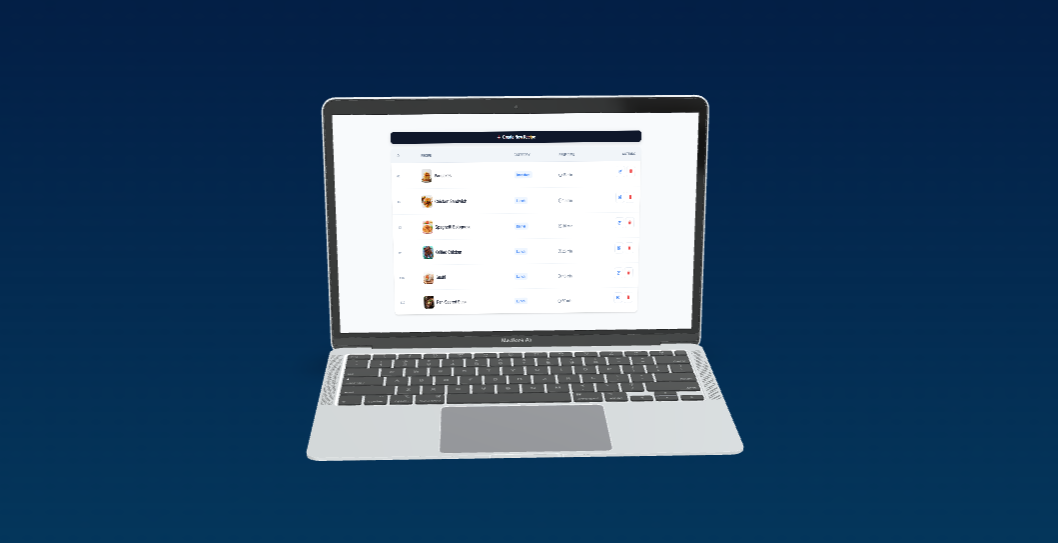
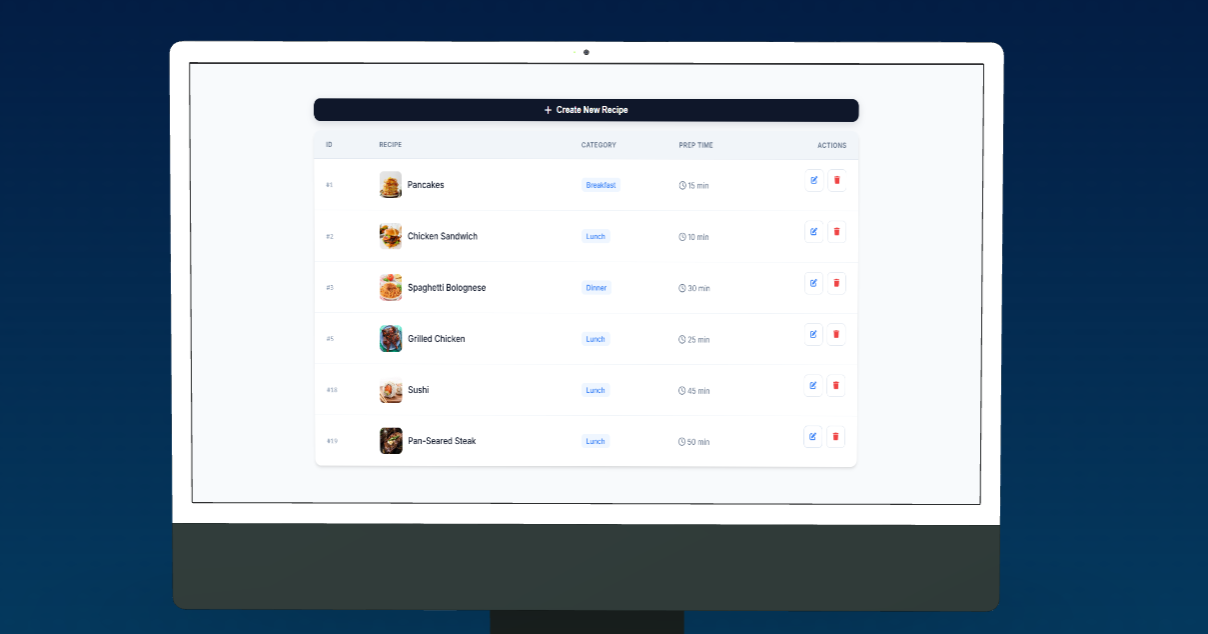
update

diff --git a/style.css b/style.css
@@ -181,7 +181,7 @@ nav a:hover {
     .navbar-toggle { display: block; }
     
     nav {
-        display: none;
+        display: flex;
         flex-direction: column;
         position: absolute;
         top: 100%;
@@ -190,9 +190,15 @@ nav a:hover {
         width: 250px;
         height: 100vh;
         padding: 2rem;
+        transform: translateX(100%);
+        transition: transform 0.4s cubic-bezier(0.4, 0, 0.2, 1);
+        box-shadow: -10px 0 30px rgba(0,0,0,0.5);
     }
 
-    nav.active { display: flex; }
+    nav.active {
+        display: flex;
+        transform: translateX(0);
+    }
 
     .introduction h1 { font-size: 40px; }
 
@@ -349,4 +355,105 @@ header {
 .pfmu {
     width: 90%;
     border-radius: 10px;
+}
+
+.skills-list li {
+    list-style: none;
+}
+
+.contact-wrapper {
+    max-width: 850px;
+    margin: 0 auto;
+    text-align: center;
+}
+
+.contact-header p {
+    font-family: 'Space Mono', monospace;
+    color: #cbd5e1;
+    margin-bottom: 40px;
+    font-size: 1.1rem;
+}
+
+.contact-grid {
+    display: grid;
+    grid-template-columns: repeat(auto-fit, minmax(220px, 1fr));
+    gap: 20px;
+}
+
+.contact-card {
+    background: rgba(118, 161, 255, 0.05);
+    border: 1px solid rgba(118, 161, 255, 0.1);
+    padding: 30px;
+    border-radius: 12px;
+    text-decoration: none;
+    color: #e7e7e7;
+    transition: all 0.3s ease;
+    display: flex;
+    flex-direction: column;
+    align-items: center;
+    gap: 10px;
+    backdrop-filter: blur(10px);
+}
+
+.contact-card i {
+    font-size: 2rem;
+    color: var(--primary-blue);
+    margin-bottom: 5px;
+}
+
+.contact-card span {
+    font-family: 'Alfa Slab One', cursive;
+    font-size: 1.2rem;
+    letter-spacing: 1px;
+}
+
+.contact-card p {
+    font-size: 0.8rem;
+    font-family: 'Space Mono', monospace;
+    opacity: 0.6;
+}
+
+/* Hover Effects */
+.contact-card:hover {
+    background: rgba(118, 161, 255, 0.15);
+    border-color: var(--primary-blue);
+    transform: translateY(-10px);
+    box-shadow: 0 10px 30px rgba(118, 161, 255, 0.1);
+}
+
+.contact-card:hover i {
+    transform: scale(1.1);
+}
+
+/* Mobile Tweak */
+@media (max-width: 600px) {
+    .contact-grid {
+        grid-template-columns: 1fr;
+    }
+}
+
+
+.logo {
+    position: relative;
+    padding: 5px 15px;
+    background: rgba(118, 161, 255, 0.1);
+    border-left: 3px solid var(--primary-blue);
+    transform: skewX(-15deg);
+    transition: 0.3s;
+    cursor: pointer;
+}
+
+.logo:hover {
+    background: rgba(118, 161, 255, 0.2);
+    box-shadow: -5px 0 20px rgba(118, 161, 255, 0.3);
+}
+
+.logo h1 {
+    transform: skewX(15deg);
+    font-size: 1.8rem !important;
+}
+
+.logo-a {
+    text-decoration: none;
+    color: white;
 }

diff --git a/index.html b/index.html
@@ -12,11 +12,15 @@
 </head>
 <body>
     
-<header>   
+<header><a href="#" class="logo-a"> 
     <div class="logo">
-        <h1 class="first-Name">A. </h1>
+        <h1 class="bracket">&lt;</h1>
+        <h1 class="first-Name">A</h1>
+        <h1 class="dot">.</h1>
         <h1 class="last-Name">El Morabiti</h1>
+        <h1 class="bracket"> /&gt;</h1>
     </div>
+    </a> 
     <button class="navbar-toggle" aria-label="Toggle Navigation">
         <span class="bar"></span>
         <span class="bar"></span>
@@ -31,11 +35,10 @@
 </header>
 
 <main class="hero">
-    <!-- ABOUT SECTION -->
     <section class="introduction">
         <h1>HI, MY NAME IS</h1>
-        <p class="subtitle">full stack web developer specializing in backend logic</p>
         <h1>AHMED EL MORABITI</h1>
+        <p class="subtitle">full stack web developer specializing in backend logic</p>
     </section>
     <div class="about-window">
             <div class="terminal-header">
@@ -51,43 +54,39 @@
             </div>
         </div>
 
-    <!-- SKILLS & EDUCATION SECTION -->
     <section id="skills" class="section-container">
         <br><br><br><br>
         <h2 class="section-title">SKILLS & EDUCATION</h2>
         <div class="grid-layout">
             <div class="card terminal-style">
-                <h3>Technical Stack</h3>
+                <h3>Technical Stack:</h3><br>
                 <ul class="skills-list">
-                    <li><span class="dot html"></span><span style="color: #e34f26;"><i class="fa-brands fa-html5"></i> HTML5</span></li>
-                    <li><span class="dot css"></span><span style="color: #1572b6;"><i class="fa-brands fa-css3-alt"></i> CSS3</span></li>
-                    <li><span class="dot js"></span><span style="color: #f7df1e;"><i class="fa-brands fa-js"></i> JavaScript</span></li>
-                    <li><span class="dot php"></span><span style="color: #8892be;"><i class="fa-brands fa-php"></i> PHP</span></li>
-                    <li><span class="dot mysql"></span><span style="color: #00758f;"><i class="fa-solid fa-database"></i> MySQL</span></li>
-                    <li><span class="dot git"></span><span style="color: #8892be;"><i class="fa-brands fa-github"></i> Git/Github</span></li>
+                    <li><span style="color: #e34f26;"><i class="fa-brands fa-html5"></i> HTML5</span></li>
+                    <li><span style="color: #1572b6;"><i class="fa-brands fa-css3-alt"></i> CSS3</span></li>
+                    <li><span style="color: #f7df1e;"><i class="fa-brands fa-js"></i> JavaScript</span></li>
+                    <li><span style="color: #8892be;"><i class="fa-brands fa-php"></i> PHP</span></li>
+                    <li><span style="color: #00758f;"><i class="fa-solid fa-database"></i> MySQL</span></li>
+                    <li><span style="color: #8892be;"><i class="fa-brands fa-github"></i> Git/Github</span></li>
                 </ul>
             </div>
             <div class="card terminal-style">
                 <h3>Education:</h3><br>
                 <div class="edu-item">
-                    <h4>Web Development Diploma</h4>
+                    <h4 style="color: var(--primary-blue);">Web Development Diploma</h4>
                     <p>Solicode - Tangier, Morocco</p>
                     <p class="date">2025 - Present</p>
                 </div><br>
                 <div class="edu-item">
-                    <h4>Management in College</h4>
-                    <p>University of Abdelmalek Essadi</p>
+                    <h4 style="color: var(--primary-blue);">Management in College</h4>
+                    <p>University of Abdelmalek Essadi - Tangier, Morocco</p>
                     <p class="date">2025 - Present</p>
                 </div>
             </div>
         </div>
     </section>
 
-    <!-- EXPERIENCE & PROJECTS SECTION -->
     <section id="experience" class="section-container">
         <h2 class="section-title">EXPERIENCE & PROJECTS</h2>
-        
-        <!-- Project 1 -->
         <div class="project-card">
             <div class="project-info">
                 <h3>Responsive Portfolio Project</h3>
@@ -107,7 +106,6 @@
             </div>
         </div>
 
-        <!-- Project 2 Placeholder -->
         <div class="project-card">
             <div class="project-info">
                 <h3>Recipe List App</h3>
@@ -129,18 +127,34 @@
         </div>
     </section>
 
-    <!-- CONTACT SECTION -->
-    <section id="contact" class="section-container">
-        <h2 class="section-title">CONTACT</h2>
-        <div class="terminal-style contact-box">
-            <p>Ready to build something logic driven? Drop a message.</p>
-            <div class="socials">
-                <a href="mailto:[email redacted]">Email</a><br>
-                <a href="www.linkedin.com/in/ahmed-el-morabiti-796962406">LinkedIn</a><br>
-                <a href="https://github.com/qzx03">GitHub</a>
-            </div>
+<section id="contact" class="section-container">
+    <h2 class="section-title">CONTACT</h2>
+    <div class="contact-wrapper">
+        <div class="contact-header">
+            <p>Ready to build something logic driven? Let's connect.</p>
         </div>
-    </section>
+        
+        <div class="contact-grid">
+            <a href="mailto:[email redacted]" class="contact-card">
+                <i class="fa-solid fa-envelope"></i>
+                <span>Email</span>
+                <p>Drop a message</p>
+            </a>
+            
+            <a href="https://www.linkedin.com/in/ahmed-el-morabiti-[phone redacted]" target="_blank" class="contact-card">
+                <i class="fa-brands fa-linkedin"></i>
+                <span>LinkedIn</span>
+                <p>Professional network</p>
+            </a>
+            
+            <a href="https://github.com/qzx03" target="_blank" class="contact-card">
+                <i class="fa-brands fa-github"></i>
+                <span>GitHub</span>
+                <p>View my logic</p>
+            </a>
+        </div>
+    </div>
+</section>
 </main>
 
 <script src="script.js"></script>